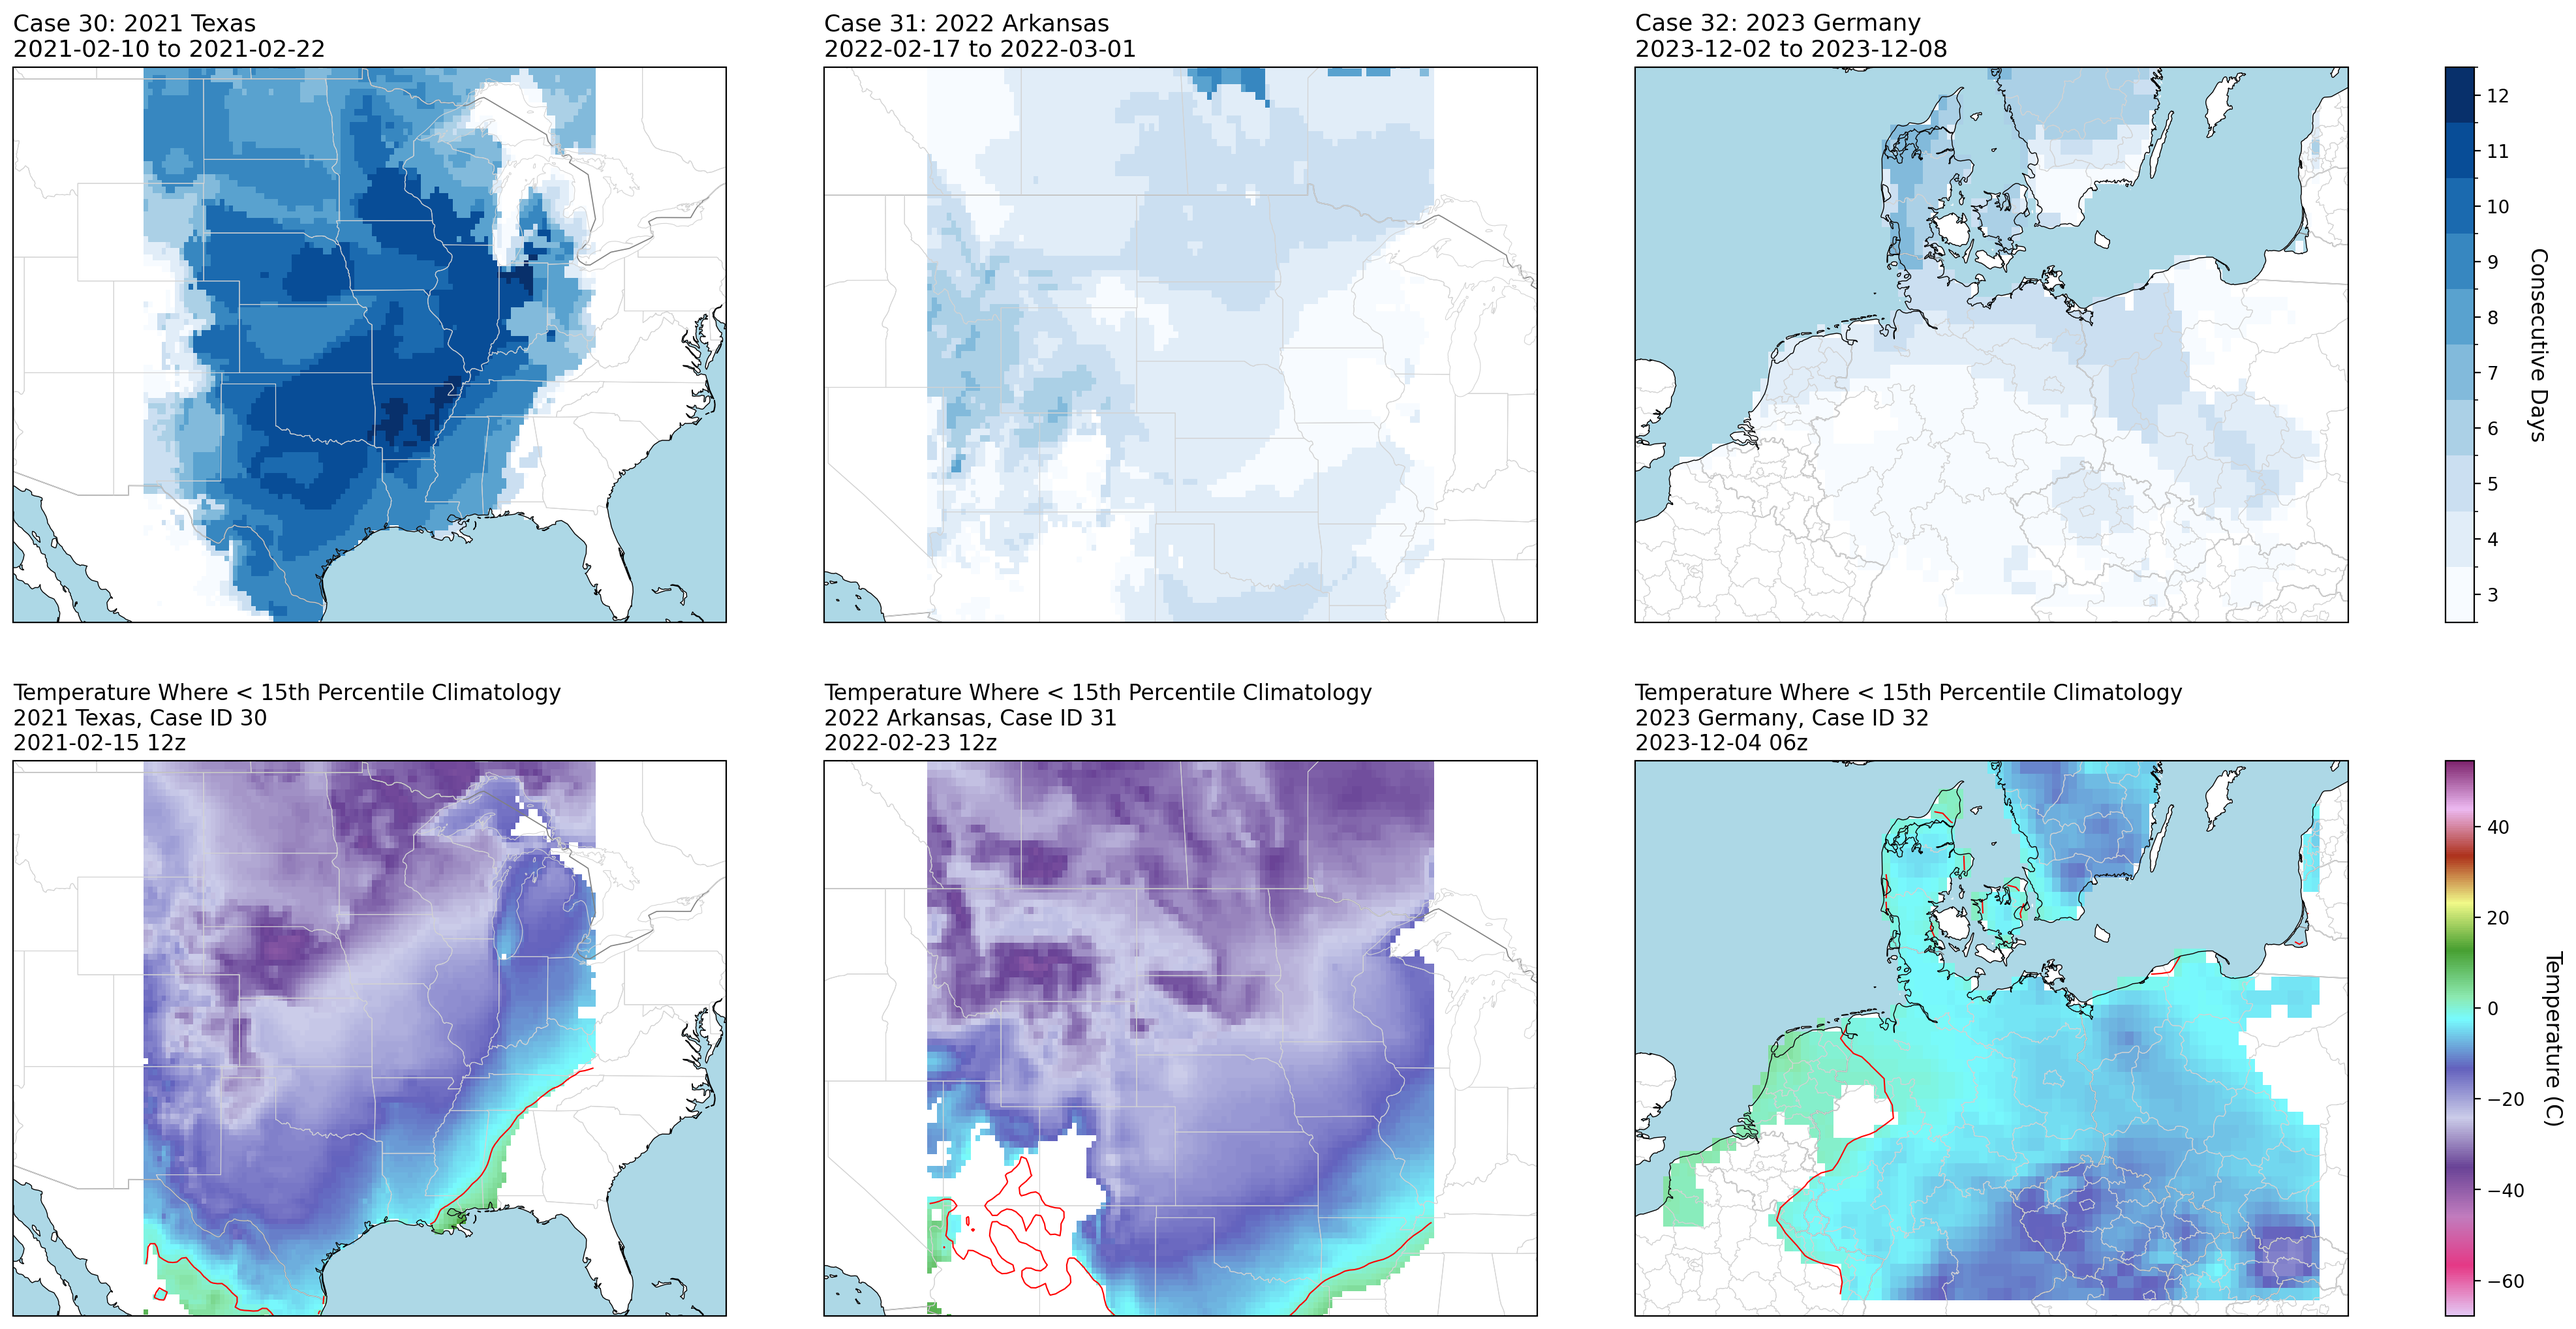
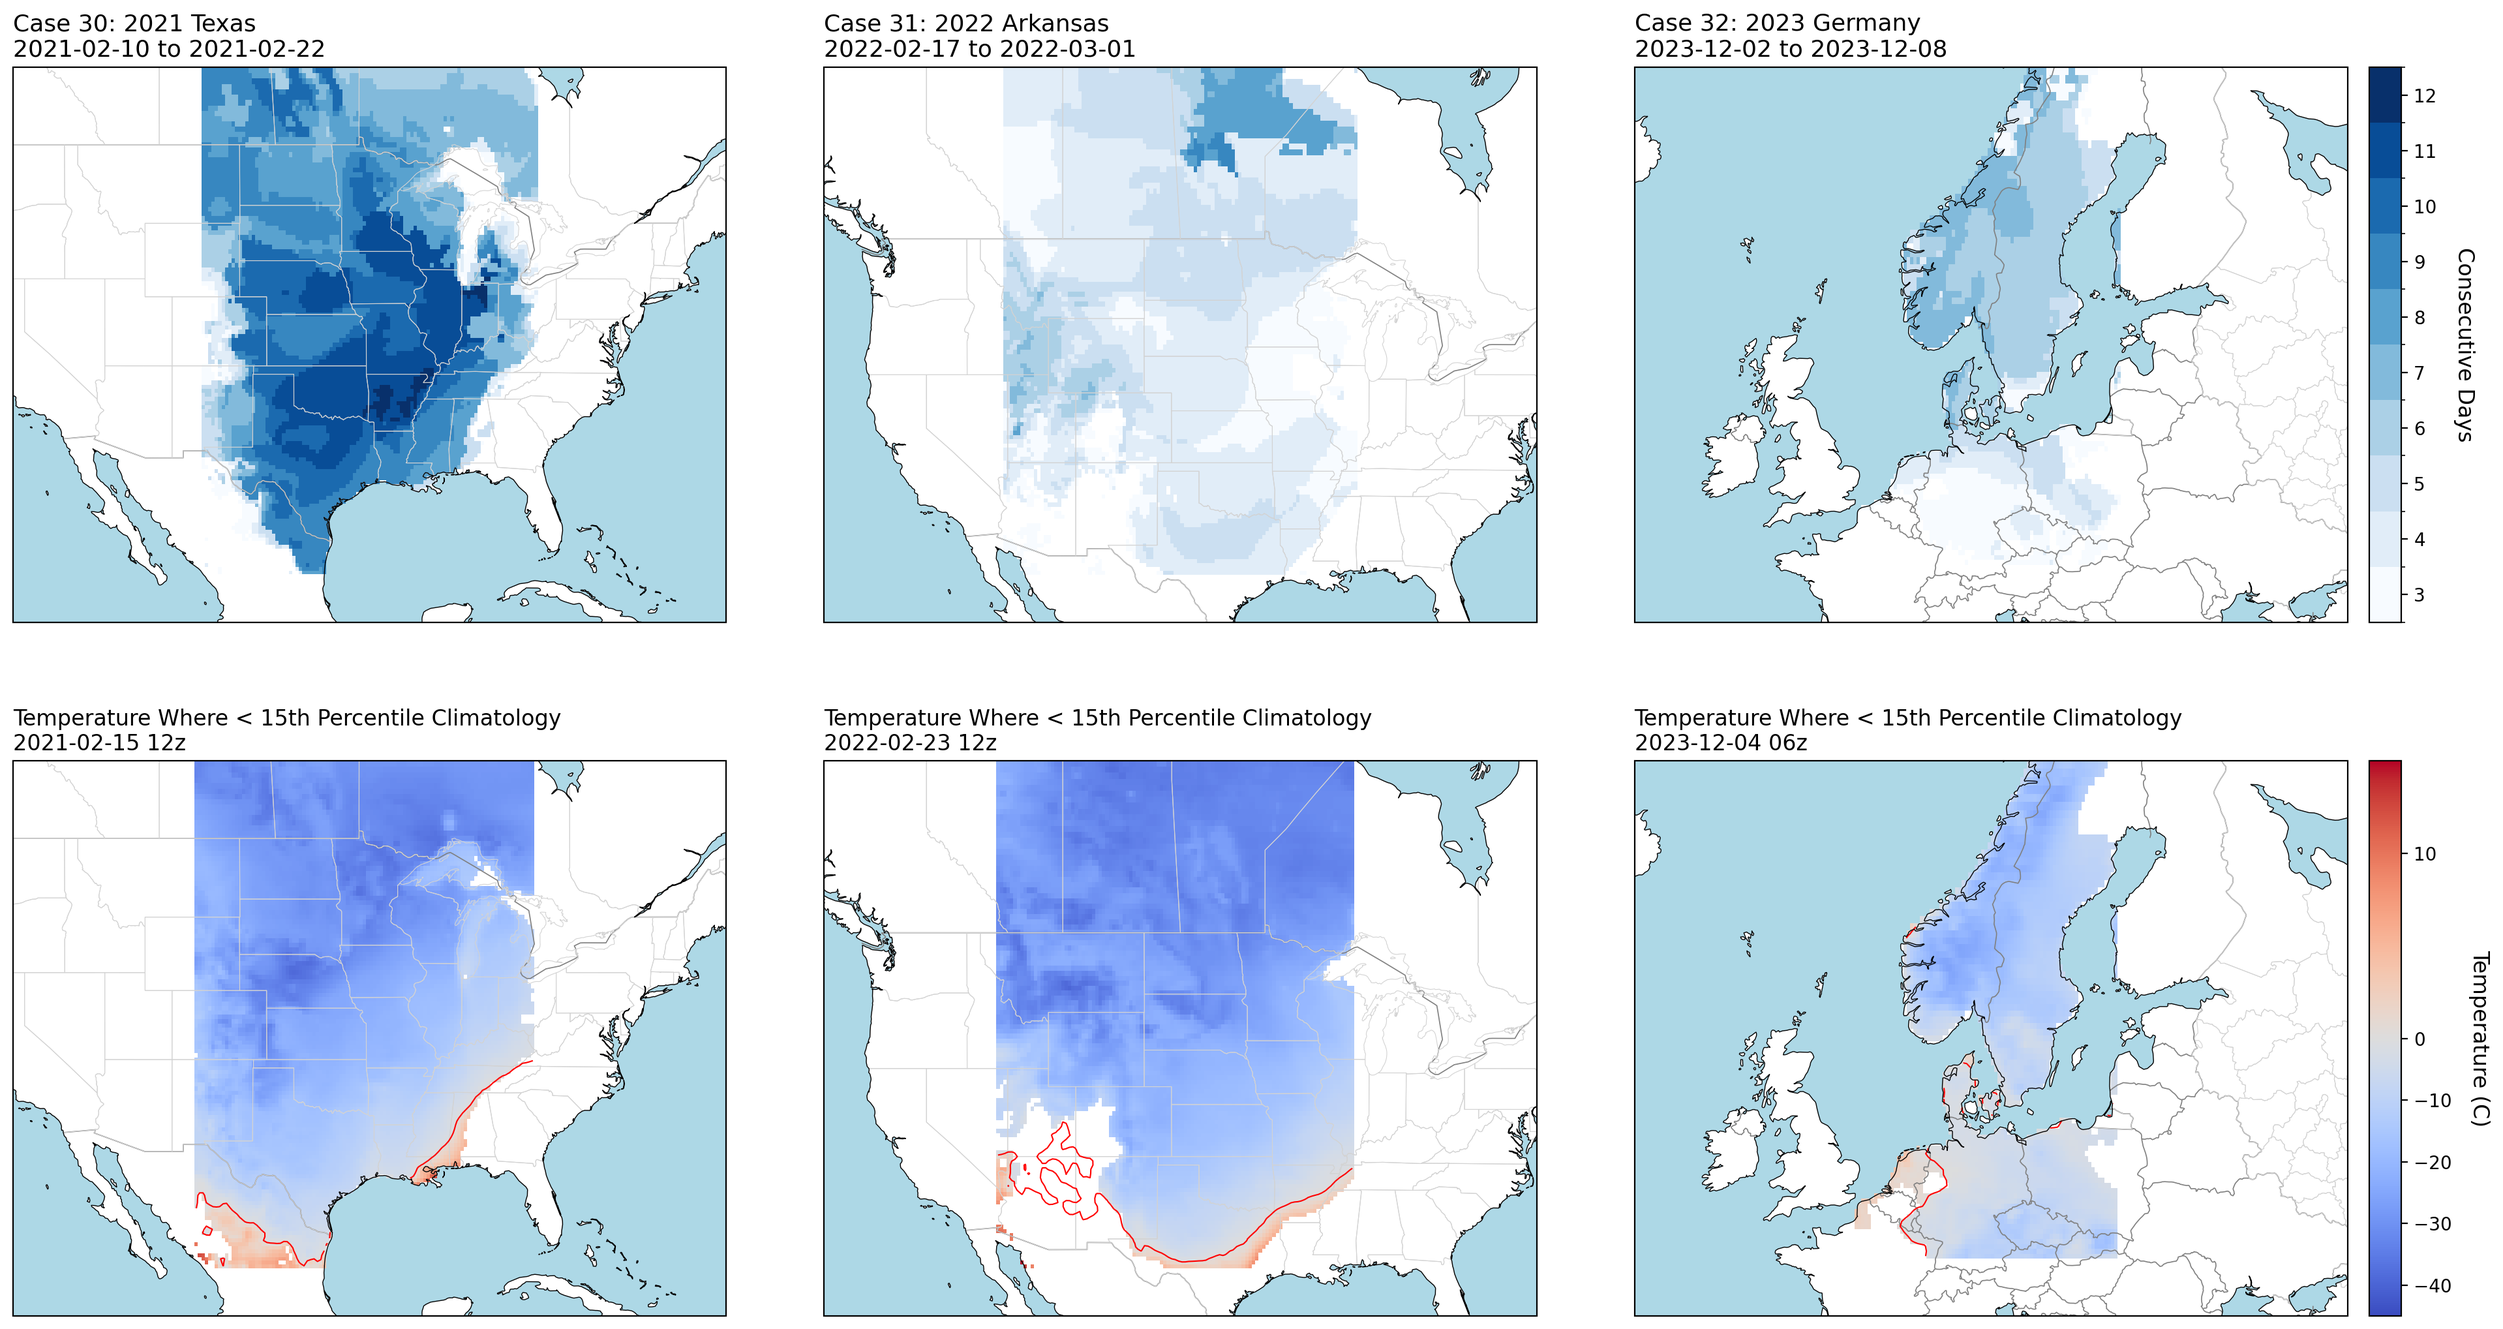
Regenerate methods figures without rainbow colormaps; rename TC 3x4
- heat/freeze/mixed 6-panels: new fixed temperature scales (inferno heat,
  coolwarm centred on 0 C for freeze).
- TC 3x4 renamed tc_3x4_eta_otis_lan.png -> tc_3x4_lee_kay_lan.png to match
  the storms it shows (Eta has no AI-model tracks); new track colormap and
  thin IBTrACS on top (--ibtracs-thin).
- Global ERA5 AR map (2021-10-24 18z) with the new IVT colormap.

diff --git a/src/plots/tc_3x4_panel.py b/src/plots/tc_3x4_panel.py
@@ -96,7 +96,7 @@ MODEL_COLS: list[tuple[str, str, str, str]] = [
 
 TC_TRACKS_ROOT = REPO_ROOT / "saved_data"
 DEFAULT_OUTPUT = (
-    REPO_ROOT / "graphics" / "paper" / "tc_3x4_eta_otis_lan.png"
+    REPO_ROOT / "graphics" / "paper" / "tc_3x4_lee_kay_lan.png"
 )
 
 
